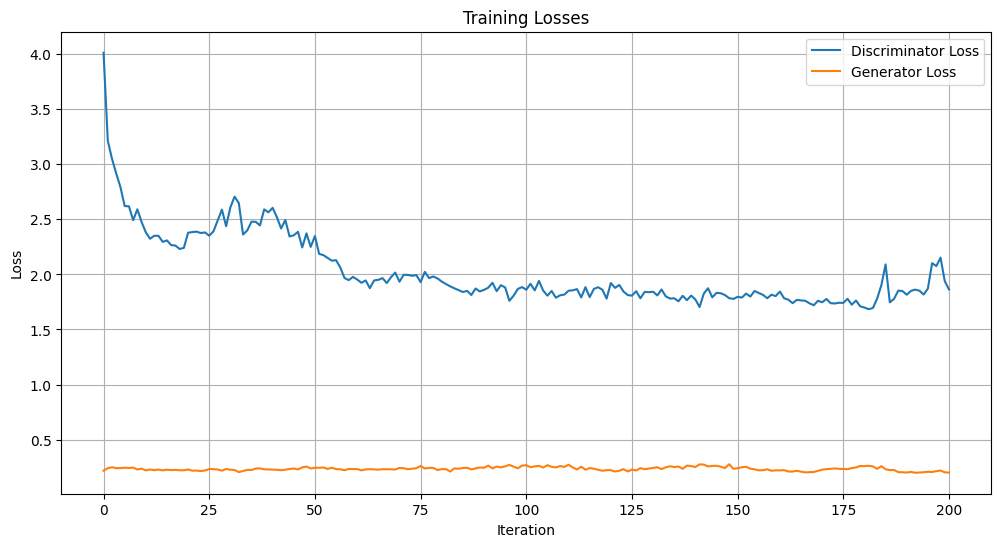
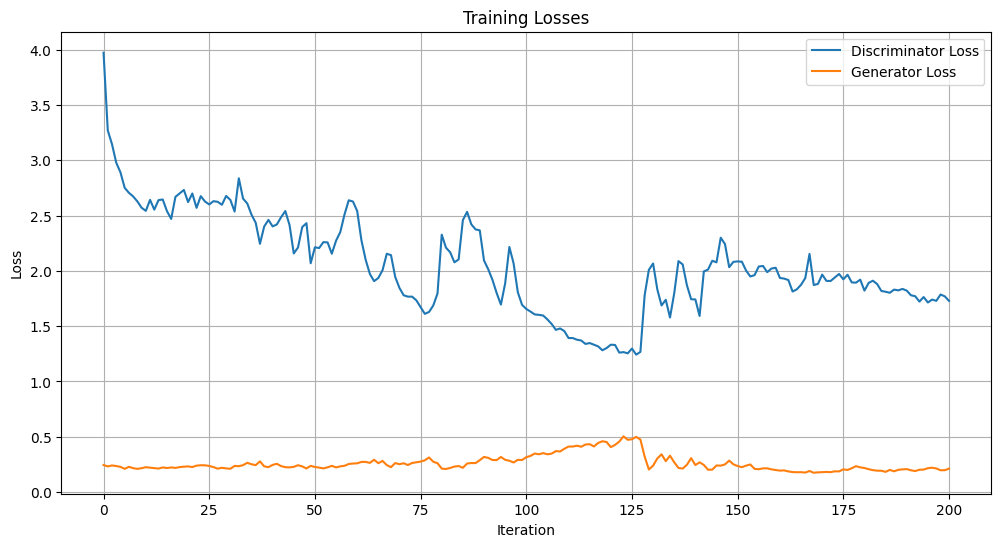
change to layer norm in generator

diff --git a/src/model/gan_architecture.py b/src/model/gan_architecture.py
@@ -13,21 +13,21 @@ class Generator(nn.Module):
         self.fc_out = nn.Linear(512, output_dim)
 
         self.dropout = nn.Dropout(dropout_rate)
-        self.batch_norm1 = nn.BatchNorm1d(128)
-        self.batch_norm2 = nn.BatchNorm1d(256)
-        self.batch_norm3 = nn.BatchNorm1d(512)
+        self.layer_norm1 = nn.LayerNorm(128)
+        self.layer_norm2 = nn.LayerNorm(256)
+        self.layer_norm3 = nn.LayerNorm(512)
 
     def forward(self, x):
         x1 = F.leaky_relu(self.fc1(x), 0.1)
-        x1 = self.batch_norm1(x1)
+        x1 = self.layer_norm1(x1)
         x1 = self.dropout(x1)
 
         x2 = F.leaky_relu(self.fc2(torch.cat([x, x1], dim=1)), 0.1)
-        x2 = self.batch_norm2(x2)
+        x2 = self.layer_norm2(x2)
         x2 = self.dropout(x2)
 
         x3 = F.leaky_relu(self.fc3(torch.cat([x1, x2], dim=1)), 0.1)
-        x3 = self.batch_norm3(x3)
+        x3 = self.layer_norm3(x3)
         x3 = self.dropout(x3)
 
         return torch.tanh(self.fc_out(x3))
